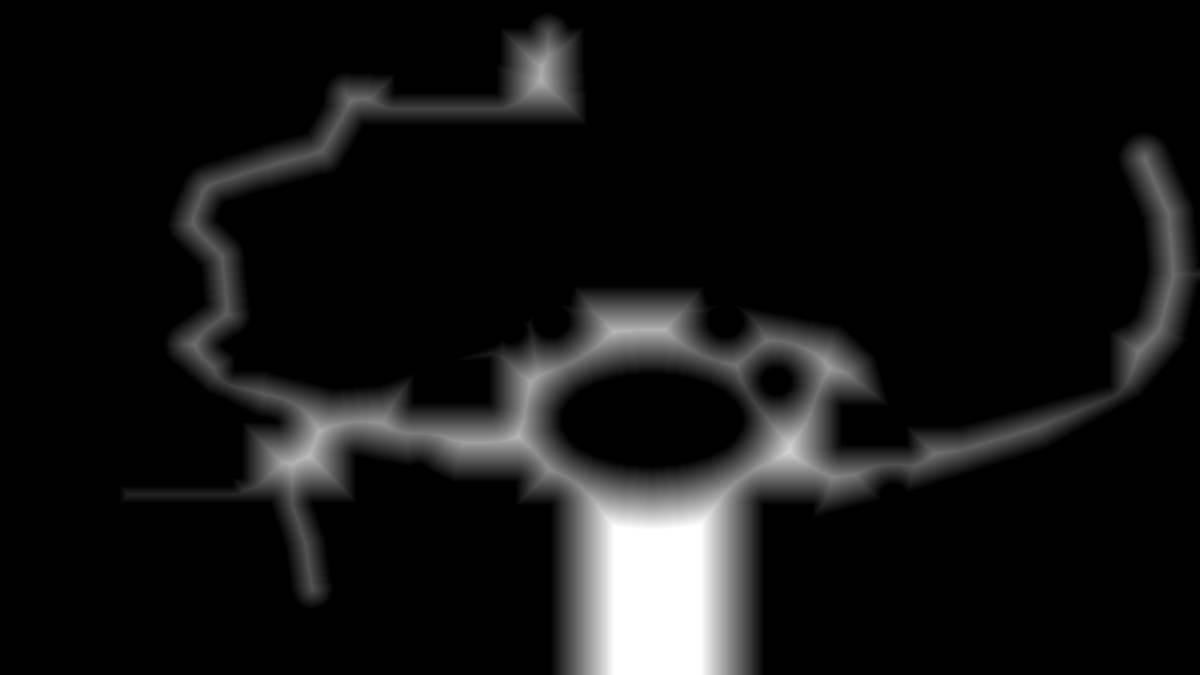
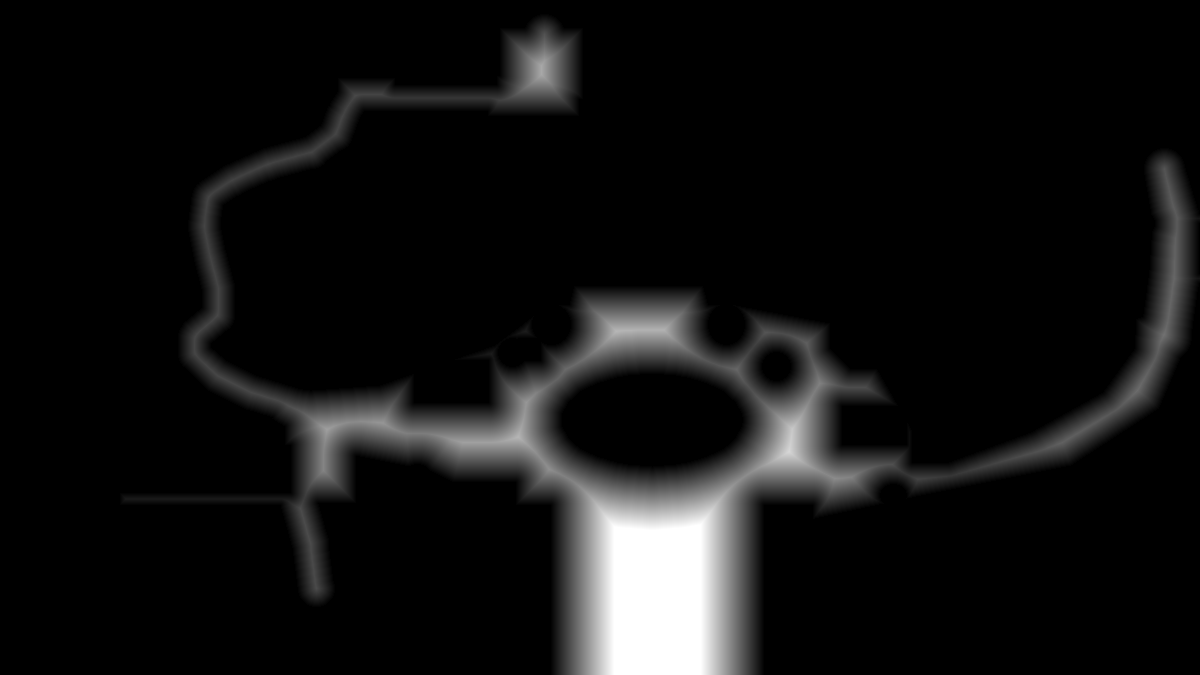
fix(pallet-anime3q): V6.2 tighten Lab left staircase->Rota 1, garden, crates/lamps & Colinas collisions

diff --git a/tools/build_walkmasks_v6.py b/tools/build_walkmasks_v6.py
@@ -76,8 +76,8 @@ def build_lab_mask():
     plaza = [
         (285, 392), (380, 385), (495, 345), (548, 305),
         (735, 305), (840, 325), (885, 365), (1055, 355),
-        (1145, 315), (1188, 338), (1140, 395), (1045, 448),
-        (920, 488), (795, 522), (535, 522), (430, 470),
+        (1145, 315), (1188, 338), (1158, 408), (1070, 465),
+        (920, 495), (795, 522), (535, 522), (430, 470),
         (320, 448), (272, 418)
     ]
     d.polygon(plaza, fill=255)
@@ -86,60 +86,71 @@ def build_lab_mask():
     d.polygon([(574, 286), (702, 286), (716, 336), (562, 336)], fill=255)
 
     # East path winding cleanly along cobblestone loop east of experimental gardens -> behind greenhouse
-    add_thick_path(d, [
-        (1030, 392), (1115, 372), (1160, 328), (1174, 274),
-        (1168, 212), (1144, 158)
-    ], half_width=26)
+    # Kept strictly on cobblestones (away from left flower beds & lamp plinth at 1142,224)
+    add_var_path(d, [
+        (1045, 400, 26), (1120, 382, 24), (1166, 336, 25), (1174, 278, 25),
+        (1176, 218, 23), (1164, 168, 20)
+    ])
 
-    # 3. Lower-Left SW scenic steps & stone landing (outside alchemy workbench)
-    d.polygon([(242, 422), (355, 422), (355, 502), (242, 502)], fill=255)
-    d.polygon([(120, 478), (275, 478), (275, 502), (120, 502)], fill=255)
-    add_thick_path(d, [(288, 492), (305, 542), (312, 588)], half_width=20)
+    # 3. Lower-Left SW scenic steps & stone landing (outside alchemy workbench & crates)
+    d.polygon([(285, 422), (355, 422), (355, 502), (285, 502)], fill=255)
+    d.polygon([(120, 484), (295, 484), (295, 504), (120, 504)], fill=255)
+    add_thick_path(d, [(296, 492), (310, 542), (316, 588)], half_width=18)
 
     # 4. MANDATORY LEFT STAIRCASE & TERRACE PASSAGE -> UPPER ROTA 1 ARCH GATE
-    add_thick_path(d, [
-        (320, 408), (264, 394), (218, 372), (186, 344),
-        (228, 314), (222, 256), (190, 224), (206, 186),
-        (268, 166), (322, 152), (344, 114), (346, 94),
-        (450, 98), (546, 76), (548, 34)
-    ], half_width=22)
+    # Traced cleanly inside the stone/wood balustrades using add_var_path (hw=16..18)
+    add_var_path(d, [
+        (338, 412, 18), (292, 405, 17), (250, 392, 17), (218, 376, 17),
+        (194, 354, 16), (194, 336, 16), (218, 316, 16), (218, 286, 16),
+        (210, 256, 16), (204, 226, 16), (208, 196, 16), (232, 180, 16),
+        (268, 164, 16), (312, 152, 16), (336, 134, 16), (344, 112, 16),
+        (356, 94, 16), (446, 94, 16), (542, 92, 18), (544, 34, 20)
+    ])
 
-    # Widen upper terrace dirt path (below fence y>=90) -> Rota 1 stone archway (x=500..582)
-    d.polygon([(330, 90), (586, 90), (586, 124), (330, 124)], fill=255)
-    d.polygon([(500, 28), (584, 28), (584, 98), (500, 98)], fill=255)
+    # Upper terrace dirt path (strictly between top fence y=76 and bushes y=110..115) -> Rota 1 archway
+    d.polygon([(338, 78), (488, 78), (488, 110), (338, 110)], fill=255)
+    d.polygon([(488, 78), (578, 78), (578, 115), (488, 115)], fill=255)
+    d.polygon([(500, 28), (582, 28), (582, 98), (500, 98)], fill=255)
 
     # --- SOLID OBSTACLES CARVED OUT ---
     # Astrolabe stone fountain (measured center 652,420)
     d.polygon(ellipse_poly(652, 420, 90, 46), fill=0)
 
-    # Left bench & flower bed wall
+    # Left bench & cherry tree flower bed / stone retaining wall
     d.rectangle([414, 360, 488, 402], fill=0)
-    d.polygon([(235, 342), (350, 342), (350, 370), (235, 370)], fill=0)
+    d.polygon([(232, 336), (362, 336), (362, 384), (268, 376), (232, 362)], fill=0)
     d.polygon([(275, 315), (410, 315), (410, 352), (275, 352)], fill=0)
-    # Alchemy workbench & SW flower bed
-    d.rectangle([110, 445, 232, 485], fill=0)
+    # Alchemy workbench, SW crates & flower bed
+    d.rectangle([110, 445, 290, 492], fill=0)
     d.rectangle([430, 482, 515, 520], fill=0)
 
-    # Flowerpot curb bollards flanking Lab front stairs
-    d.ellipse([534, 304, 568, 336], fill=0)
-    d.ellipse([708, 304, 742, 336], fill=0)
+    # Flowerpot curb bollards & small crate flanking Lab front stairs
+    d.ellipse([532, 304, 570, 344], fill=0)
+    d.ellipse([708, 304, 744, 344], fill=0)
+    d.rectangle([518, 338, 540, 360], fill=0)
 
     # Plaza lamps (measured plinths)
     d.ellipse([402, 464, 432, 494], fill=0)
     d.ellipse([880, 484, 906, 506], fill=0)
-    d.ellipse([498, 316, 524, 342], fill=0)
-    d.ellipse([762, 368, 790, 394], fill=0)
+    d.ellipse([498, 338, 526, 366], fill=0)
+    d.ellipse([762, 352, 790, 380], fill=0)
+    d.ellipse([1134, 212, 1154, 234], fill=0)
 
-    # East greenhouse, bench & experimental garden beds
+    # Greenhouse corner crates, bench & full experimental garden fence + stone corner pillar
+    d.polygon([(830, 320), (895, 320), (895, 368), (850, 368), (830, 348)], fill=0)
     d.rectangle([842, 406, 906, 444], fill=0)
-    d.polygon([(875, 255), (1108, 255), (1108, 385), (960, 425), (895, 425), (875, 355)], fill=0)
+    d.polygon([
+        (875, 250), (1125, 250), (1136, 295), (1134, 348),
+        (1102, 392), (1030, 432), (948, 462), (912, 462),
+        (912, 430), (875, 365)
+    ], fill=0)
 
     # Bottom grand stair balustrades
     d.polygon([(510, 505), (550, 505), (550, 675), (510, 675)], fill=0)
     d.polygon([(764, 505), (812, 505), (812, 675), (764, 675)], fill=0)
 
     # Arch stone pillars & upper terrace fence/signboard
-    d.rectangle([395, 40, 496, 92], fill=0)
+    d.rectangle([395, 40, 496, 84], fill=0)
     d.rectangle([584, 15, 628, 72], fill=0)
 
     # Middle-left landing pond lamp & Stairs 3 right lamp
@@ -266,9 +277,9 @@ def build_colinas_mask():
     # 3. Lower Quarry Road across East Stairs <-> Stone Arch Bridge <-> West Cabin Plaza
     d.polygon([(835, 350), (935, 350), (935, 405), (835, 405)], fill=255)
     add_thick_path(d, [
-        (870, 382), (760, 402), (620, 405), (510, 376),
+        (870, 382), (830, 412), (760, 428), (620, 422), (510, 382),
         (445, 366), (370, 368), (295, 355), (210, 325), (145, 285)
-    ], half_width=22)
+    ], half_width=24)
 
     # West Cabin Plaza (strictly south of the porch/fence y=285, north of cliff fence y=340)
     d.polygon([(145, 280), (390, 280), (390, 352), (145, 352)], fill=255)
@@ -302,19 +313,22 @@ def build_colinas_mask():
     d.polygon([(620, 175), (955, 200), (955, 265), (620, 255)], fill=0)
     d.rectangle([600, 148, 800, 175], fill=0)
     d.rectangle([445, 634, 474, 675], fill=0)
-    # Lamp post & rock/log near east road (Screenshot 021837)
+    # Lamp post, fallen log, flowers & stone curb near east road (Screenshots 021837, 034434)
+    d.polygon([(855, 245), (942, 245), (942, 298), (905, 318), (855, 315)], fill=0)
     d.ellipse([950, 258, 982, 288], fill=0)
     d.ellipse([1098, 332, 1126, 354], fill=0)
     # Mossy boulder & rock cluster right of mine entrance (Screenshot 021839)
     d.polygon([(830, 265), (890, 265), (890, 305), (830, 305)], fill=0)
     d.polygon([(645, 295), (765, 295), (765, 365), (645, 365)], fill=0)
+    # Wooden fence & stone retaining wall above lower cobblestone road (Screenshot 034439)
+    d.polygon([(675, 350), (835, 350), (835, 398), (780, 408), (675, 408)], fill=0)
 
     # Center waterfall & bridge railings
     d.polygon([(385, 285), (535, 285), (535, 342), (385, 342)], fill=0)
     d.polygon([(388, 392), (518, 392), (518, 490), (415, 490), (388, 445)], fill=0)
 
     # Bottom-center wooden fence & coastal cliff edge (Screenshot 021853)
-    d.polygon([(530, 428), (860, 428), (860, 540), (530, 540)], fill=0)
+    d.polygon([(530, 446), (780, 446), (860, 434), (860, 540), (530, 540)], fill=0)
 
     return im
 
@@ -404,10 +418,11 @@ def main():
             build_lab_mask,
             [
                 (658, 650), (658, 540), (540, 465), (420, 425),
-                (320, 408), (264, 394), (218, 372), (186, 344),
-                (228, 314), (222, 256), (190, 224), (206, 186),
-                (268, 166), (322, 152), (344, 114), (346, 106),
-                (480, 108), (542, 105), (542, 42)
+                (338, 412), (292, 405), (250, 392), (218, 376),
+                (194, 354), (194, 336), (218, 316), (218, 286),
+                (210, 256), (204, 226), (208, 196), (232, 180),
+                (268, 164), (312, 152), (336, 134), (344, 112),
+                (356, 94), (446, 97), (542, 95), (544, 42)
             ],
         ),
         ("costa", "assets/story/pallet/anime3q/04_costa_praia.png", build_costa_mask, [(600, 12), (606, 48), (606, 225), (606, 280), (606, 365), (606, 280), (775, 290), (788, 322), (845, 335), (860, 404), (912, 402), (1035, 425)],
@@ -418,8 +433,8 @@ def main():
             build_colinas_mask,
             [
                 (1170, 268), (1095, 272), (1020, 256), (985, 295),
-                (940, 325), (875, 378), (760, 402), (620, 405),
-                (510, 376), (445, 366), (370, 368), (332, 368),
+                (962, 308), (920, 355), (875, 382), (845, 412), (760, 428), (620, 422),
+                (565, 396), (505, 370), (445, 366), (370, 368), (332, 368),
                 (338, 442), (398, 502), (415, 565), (502, 635), (505, 665)
             ],
         ),

diff --git a/DOCUMENTACAO/01_RELATORIO_COMPLETO.md b/DOCUMENTACAO/01_RELATORIO_COMPLETO.md
@@ -56,3 +56,10 @@ Integrar as **6 artes definitivas de Pallet Town** em um mundo continuamente exp
 - **Colinas (`pallet-colinas-3q`)**: Bloqueada a cerca da trilha superior da mina, telhado leste (`y>=295`), árvore leste e pilar inferior da escadaria sul.
 - **Nova Rota 1 (`pallet-arredores-3q`)**: Corrigida a lagoa da cachoeira, varanda da cabana SW, cerca do prado NO, segundo toco no prado NO, cerca leste, toco/telhado do campo C e balaustradas da escadaria sul.
 - **Centro e Jardins**: Auditados via `--edge`; mantidos íntegros (precisão já alinhada desde a V5).
+
+## Atualização V6.2 — Auditoria Fina do Laboratório (Escadaria Esquerda -> Rota 1) e Colinas
+- **Laboratório (`pallet-lab-3q`)**:
+  - Escadaria esquerda traçada com `add_var_path` (`hw=16..18`) exatamente dentro das balaustradas de pedra/madeira, eliminando invasões à cerejeira/muro lateral (`x=232..362, y=336..384`), à cerca de madeira/arbustos superiores (`x=170..210, y=180..250`) e aos arbustos abaixo do terraço superior (`y>=112`).
+  - Recortadas as caixas de madeira do canto SO (`[110, 445, 290, 492]`), os postes frontais + caixote (`498..526, 338..366`, `518..540, 338..360`, `762..790, 352..380`), as caixas da quina da estufa (`830..895, 320..368`), o pilar de pedra SO e toda a cerca/canteiro do jardim experimental (`875..1136, 250..462`), além do poste e canteiros na via nordeste (`1134..1154, 212..234`).
+- **Colinas (`pallet-colinas-3q`)**:
+  - Recortados o tronco caído/flores na borda superior da estrada leste (`855..942, 245..318`) e a cerca de madeira + muro de pedra acima da estrada inferior (`675..835, 350..408`), deslocando o corredor caminhável para o calçamento (`y=408..446`).

diff --git a/DOCUMENTACAO/06_VALIDACAO_E_EVIDENCIAS.md b/DOCUMENTACAO/06_VALIDACAO_E_EVIDENCIAS.md
@@ -35,3 +35,8 @@ Executado em sessão contínua com gravação em vídeo (`Errors count: 0`, `404
 - `tools/build_walkmasks_v6.py`: `components_r11_count == 1` para `centro`, `jardins`, `lab`, `costa`, `colinas` e `rota1`.
 - Todos os spawns de portais e mapas validados com `SDF >= 13.0` (`costa` píer `SDF=35.5..39.75`, `from_jardins` `17.5`, `from_centro` `41.25`, `colinas-to-lab` `16.0`).
 - E2E Chromium (`test_anime3q_v6.mjs`): 6/6 mapas com `componentCount === 1`, navegação completa até o píer com `fishVisible: true`, batalha selvagem na Rota 1, `Errors count: 0`, `404 count: 0`.
+
+## Validação V6.2 (Tiles `--edge` + Chromium E2E)
+- Inspeção visual em *tiles* de 20px (`tools/render_audit_tiles.py lab 3 3 --edge` e `colinas 3 3 --edge`) confirmando `SDF < 11` em todos os 11 pontos das capturas enviadas.
+- `python3 tools/build_walkmasks_v6.py`: `components_r11_count === 1` em todas as 6 áreas.
+- `test_anime3q_v6.mjs` no Chromium: `Errors count: 0`, `404 count: 0`, subida completa da escadaria esquerda do Laboratório (`(312, 486)` -> `(192, 342)` -> `(546, 72)`) e passagem para `pallet-arredores-3q`.

diff --git a/DOCUMENTACAO/02_HISTORICO_DE_PROMPTS.md b/DOCUMENTACAO/02_HISTORICO_DE_PROMPTS.md
@@ -20,3 +20,7 @@
 
 ### V6.1 — Costa e revisão geral de colisões
 - *"Colisões da Costa de pallet, além de que precisa liberar espaço para entrar corretamente e poder ir para a ponte. Ali vai ser um local de pesca. O que você está utilizando para fazer as colisões? Estão completamente fora do normal, preciso de mais atenção com as colisões. Dê uma olhada nas outras áreas de pallet e corrija tudo."*
+
+## Prompt V6.2 (11 capturas de tela — Laboratório e Colinas)
+- *"Ainda tem muitos lugares para ajeitar a colisão. Principalmente a.escadaria do lado esquerdo do laboratório que leva até a rota 1"*
+- Anexadas 11 capturas de tela em mobile (`Screenshot_20261116-034434` a `034836`) apontando pontos de invasão na escadaria esquerda, jardim experimental, caixotes, postes do Laboratório e muro/tronco nas Colinas.

diff --git a/DOCUMENTACAO/08_ESTADO_ATUAL_E_PROXIMOS_PASSOS.md b/DOCUMENTACAO/08_ESTADO_ATUAL_E_PROXIMOS_PASSOS.md
@@ -14,3 +14,6 @@
 
 ## Estado V6.1
 - Todas as 6 áreas de Pallet Town + Nova Rota 1 possuem colisões auditadas em tiles de 20px, conectividade única (`componentCount === 1`) e píer de pesca da Costa totalmente acessível.
+
+## Estado V6.2
+- Correção estrutural completa das colisões da escadaria esquerda do Laboratório até a Rota 1, jardim experimental, caixotes, postes e via nordeste, além do muro de pedra e tronco caído das Colinas, validada em *tiles* de 20px e E2E no Chromium.
